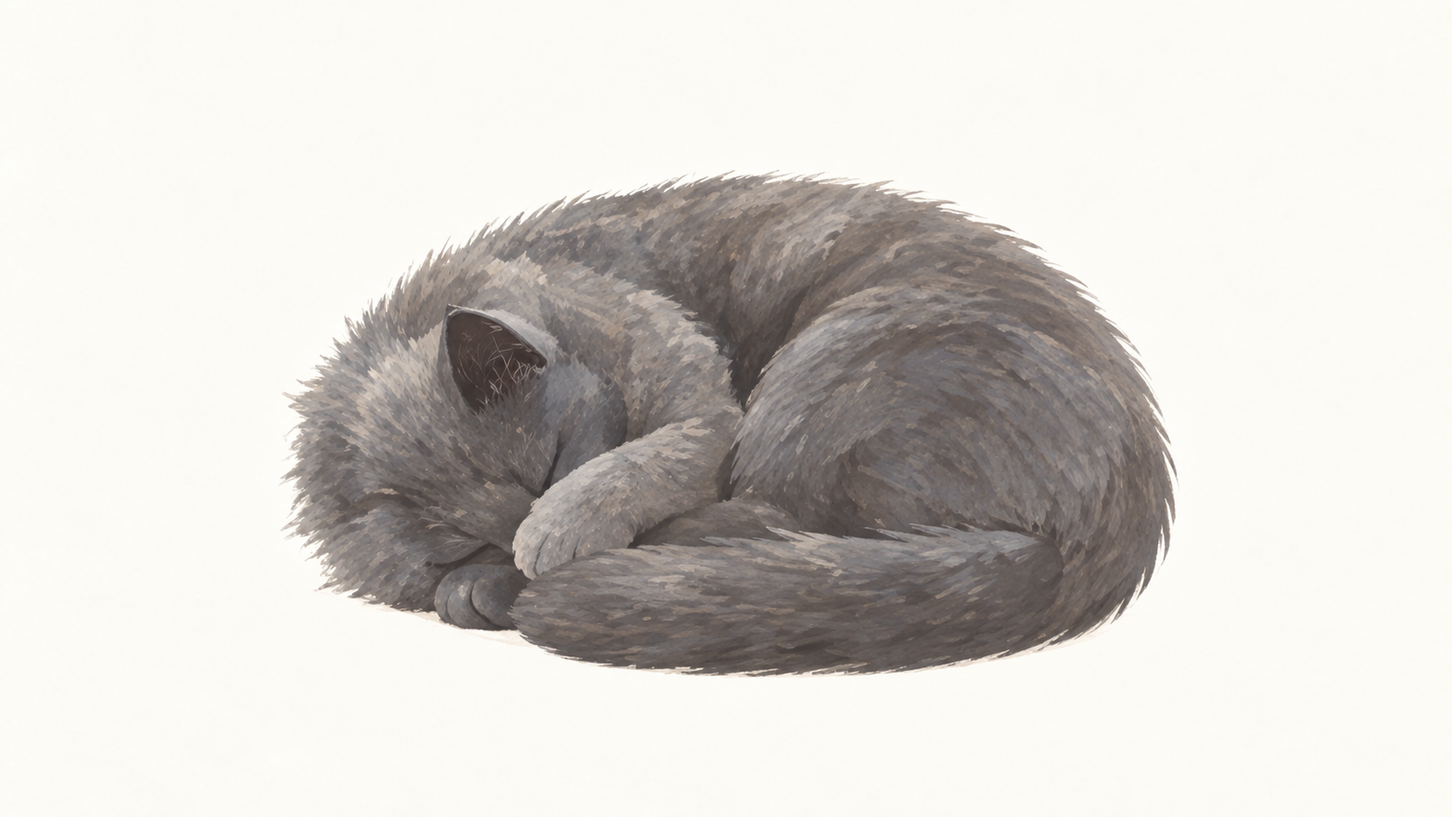
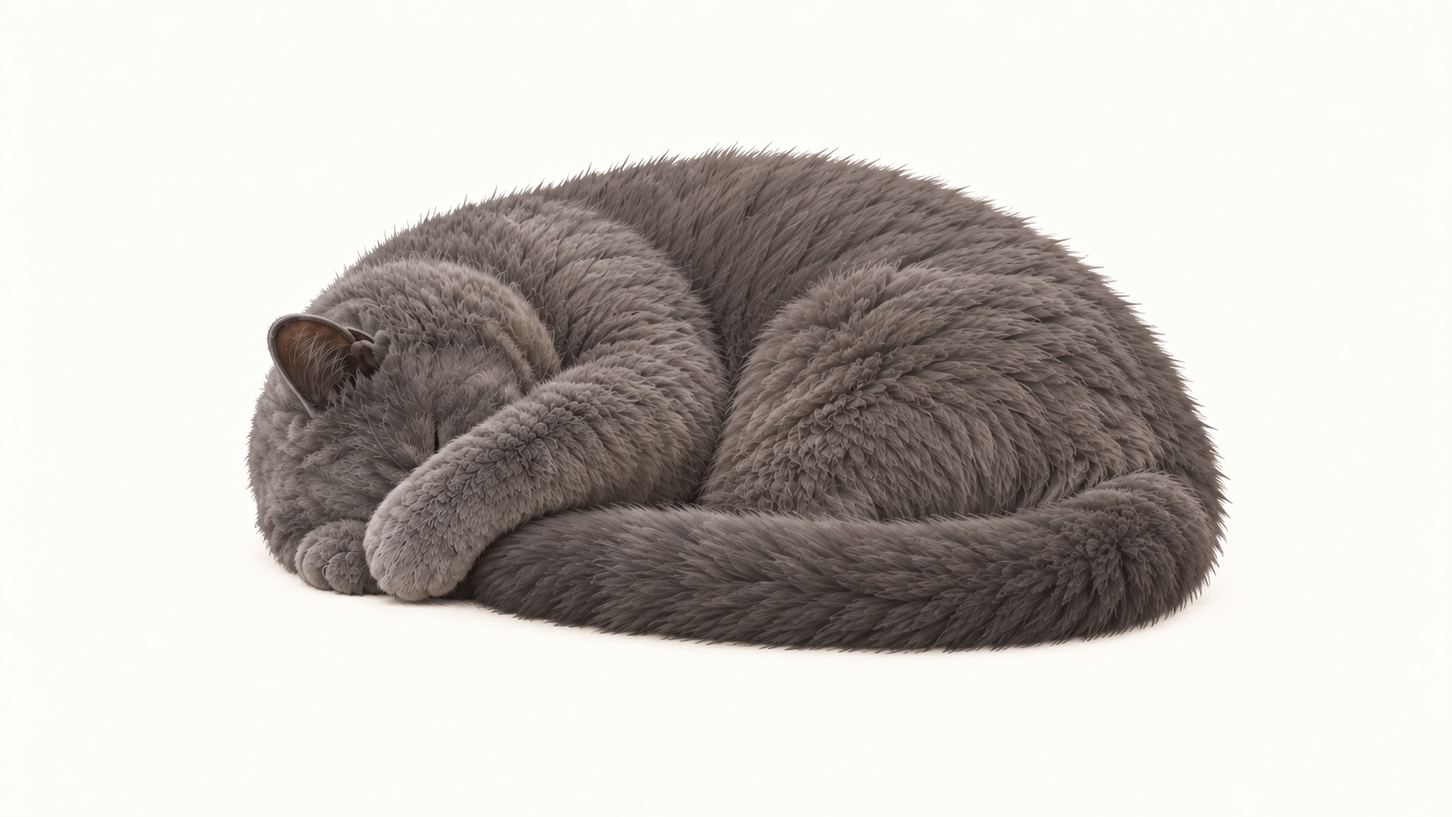
Redraw masked sleep in matching cat style and add comparison

Changed region(s): [[0.1555, 0.1849, 0.8708, 0.8321]]

diff --git a/art/video-pipeline/expressions-v4/index.html b/art/video-pipeline/expressions-v4/index.html
@@ -1,4 +1,4 @@
-<!doctype html><html lang="zh-CN"><meta charset="utf-8"><meta name="viewport" content="width=device-width"><title>陈皮新动作 v4</title><style>body{font:16px/1.7 system-ui;background:#f3f0e8;color:#303632;max-width:1180px;margin:32px auto;padding:20px}article{background:white;padding:20px;margin:22px 0;border-radius:16px}.pair{display:grid;grid-template-columns:1fr 1fr;gap:12px}figure{margin:0}img{width:100%}small{font-size:16px;color:#57665e}pre{white-space:pre-wrap;font:15px/1.8 system-ui}select{padding:8px}a{color:#276b5a}@media(max-width:650px){.pair{grid-template-columns:1fr}}</style><h1>陈皮 · 平躺、扶墙与表情动作 v4</h1><p>47条视频任务 · 12张共享锚点 · 逐条独立时长 · 仅制作包，待返片后接入</p><p><a href="README.md">制作说明与动作表</a> · <a href="行为衔接.md">行为树与15秒点击规则</a> · <a href="动作表.csv">CSV动作表</a></p><p>上传每条的首帧和尾帧原文件，复制完整提示词。循环首尾相同是有意设计。所有时长是制作目标，原素材不批量变速。</p><article><h2>2026-09-20 照片姿态修订版</h2><p>7张关键图已重画，另附哈欠峰值；等待用户美术评审与返片动态验收。<a href="静态审核.md">逐图对照与限制</a></p><div class="pair"><figure><img src="anchors/HR-右边扶墙.png"><figcaption>HR · 身体向墙倾斜，上前掌耳侧、下前掌胸前，均朝同一墙面；头回望，尾下垂，后脚承重。</figcaption></figure><figure><img src="anchors/HL-左边扶墙.png"><figcaption>HL · 单独生成左侧扶墙，上掌耳侧、下掌胸前、头回望，身体朝墙倾斜；浅背景。</figcaption></figure><figure><img src="anchors/A-侧躺收爪.png"><figcaption>A · 左侧脸贴地，近脸前爪弯曲，后腿一伸一屈，尾靠后腿；闭眼不主动看镜头。</figcaption></figure><figure><img src="anchors/B-露肚仰躺.png"><figcaption>B · 露肚、右侧头后仰贴地，两前腿向头顶一高一低展开；闭嘴。</figcaption></figure><figure><img src="anchors/C-侧躺舒展.png"><figcaption>C · 背向，近臀远头，正脸不可见，尾绕近侧、腿不对称伸出。</figcaption></figure><figure><img src="anchors/M-掩面睡姿.png"><figcaption>M · 低伏侧面椭圆蜷睡，头在左埋于前爪、近前臂盖脸，圆背在右、尾围前缘。</figcaption></figure><figure><img src="anchors/D-趴卧.png"><figcaption>D · 低头胸腹贴地、前爪朝画面右下，作为趴卧连接；不声称逐像素复刻照片。</figcaption></figure><figure><img src="peaks/B-仰躺哈欠峰值.png"><figcaption>哈欠中间峰值；不能代替循环首尾</figcaption></figure></div></article><label>动作分类 <select id="filter"><option value="">全部</option><option>扶墙</option><option>平躺衔接</option><option>休息循环</option><option>点击</option><option>哈欠</option><option>掩面睡眠</option><option>叫声表现</option><option>伸懒腰</option></select></label><article data-group="扶墙"><h2>52-右边抬身扶墙 <small>3s · 过渡</small></h2><div class="pair"><figure><img loading="lazy" src="52-右边抬身扶墙/首帧.png"><figcaption>首帧 · SR</figcaption></figure><figure><img loading="lazy" src="52-右边抬身扶墙/尾帧.png"><figcaption>尾帧 · HR</figcaption></figure></div><p>朝右站立，后脚承重，抬胸并将身体向右墙倾斜约15—20度；高前爪伸至耳侧、低前爪伸至胸前，两掌先后抵住同一竖面。保持猫式肩肘结构，头回望略倾，尾向左下垂；不是双手握拳靠胸。</p><p><a href="52-右边抬身扶墙/提示词.txt">完整提示词</a> · <a href="52-右边抬身扶墙/首帧.png">首帧原图</a> · <a href="52-右边抬身扶墙/尾帧.png">尾帧原图</a></p><details><summary>展开可复制提示词</summary><pre>52-右边抬身扶墙
+<!doctype html><html lang="zh-CN"><meta charset="utf-8"><meta name="viewport" content="width=device-width"><title>陈皮新动作 v4</title><style>body{font:16px/1.7 system-ui;background:#f3f0e8;color:#303632;max-width:1180px;margin:32px auto;padding:20px}article{background:white;padding:20px;margin:22px 0;border-radius:16px}.pair{display:grid;grid-template-columns:1fr 1fr;gap:12px}figure{margin:0}img{width:100%}small{font-size:16px;color:#57665e}pre{white-space:pre-wrap;font:15px/1.8 system-ui}select{padding:8px}a{color:#276b5a}@media(max-width:650px){.pair{grid-template-columns:1fr}}</style><h1>陈皮 · 平躺、扶墙与表情动作 v4</h1><p>47条视频任务 · 12张共享锚点 · 逐条独立时长 · 仅制作包，待返片后接入</p><p><a href="README.md">制作说明与动作表</a> · <a href="行为衔接.md">行为树与15秒点击规则</a> · <a href="动作表.csv">CSV动作表</a></p><p>上传每条的首帧和尾帧原文件，复制完整提示词。循环首尾相同是有意设计。所有时长是制作目标，原素材不批量变速。</p><article><h2>2026-09-20 照片姿态修订版</h2><p>7张关键图已重画，另附哈欠峰值；等待用户美术评审与返片动态验收。<a href="静态审核.md">逐图对照与限制</a></p><div class="pair"><figure><img src="anchors/HR-右边扶墙.png"><figcaption>HR · 身体向墙倾斜，上前掌耳侧、下前掌胸前，均朝同一墙面；头回望，尾下垂，后脚承重。</figcaption></figure><figure><img src="anchors/HL-左边扶墙.png"><figcaption>HL · 单独生成左侧扶墙，上掌耳侧、下掌胸前、头回望，身体朝墙倾斜；浅背景。</figcaption></figure><figure><img src="anchors/A-侧躺收爪.png"><figcaption>A · 左侧脸贴地，近脸前爪弯曲，后腿一伸一屈，尾靠后腿；闭眼不主动看镜头。</figcaption></figure><figure><img src="anchors/B-露肚仰躺.png"><figcaption>B · 露肚、右侧头后仰贴地，两前腿向头顶一高一低展开；闭嘴。</figcaption></figure><figure><img src="anchors/C-侧躺舒展.png"><figcaption>C · 背向，近臀远头，正脸不可见，尾绕近侧、腿不对称伸出。</figcaption></figure><figure><img src="anchors/M-掩面睡姿.png"><figcaption>M · r5重新绘制：毛簇、软爪和胸腹暗部更接近A；低侧视蜷团、头埋于左侧前爪、前臂遮脸、尾围前缘。具体轮廓与爪位有重绘差异，待用户评审。</figcaption></figure><figure><img src="anchors/D-趴卧.png"><figcaption>D · 低头胸腹贴地、前爪朝画面右下，作为趴卧连接；不声称逐像素复刻照片。</figcaption></figure><figure><img src="peaks/B-仰躺哈欠峰值.png"><figcaption>哈欠中间峰值；不能代替循环首尾</figcaption></figure></div></article><label>动作分类 <select id="filter"><option value="">全部</option><option>扶墙</option><option>平躺衔接</option><option>休息循环</option><option>点击</option><option>哈欠</option><option>掩面睡眠</option><option>叫声表现</option><option>伸懒腰</option></select></label><article data-group="扶墙"><h2>52-右边抬身扶墙 <small>3s · 过渡</small></h2><div class="pair"><figure><img loading="lazy" src="52-右边抬身扶墙/首帧.png"><figcaption>首帧 · SR</figcaption></figure><figure><img loading="lazy" src="52-右边抬身扶墙/尾帧.png"><figcaption>尾帧 · HR</figcaption></figure></div><p>朝右站立，后脚承重，抬胸并将身体向右墙倾斜约15—20度；高前爪伸至耳侧、低前爪伸至胸前，两掌先后抵住同一竖面。保持猫式肩肘结构，头回望略倾，尾向左下垂；不是双手握拳靠胸。</p><p><a href="52-右边抬身扶墙/提示词.txt">完整提示词</a> · <a href="52-右边抬身扶墙/首帧.png">首帧原图</a> · <a href="52-右边抬身扶墙/尾帧.png">尾帧原图</a></p><details><summary>展开可复制提示词</summary><pre>52-右边抬身扶墙
 接缝：SR → HR；类型：过渡
 建议有效动作时长 3 秒。按这个节奏制作，不统一做5秒。平台仅支持固定时长时，选择不短于目标的最近时长，完整动作按目标时长完成，剩余仅保持结束姿态；循环只添加完整周期，不拖慢呼吸或重复倒放。返还未加速、未补帧的原始视频并说明实际时长。
 
@@ -288,6 +288,8 @@
 动作：从A头在左的侧瘫开始收回伸长后腿，弯脊背将后躯包向头，缓慢压低胸颈，左侧头埋入前爪；近侧前臂覆盖眼脸，厚尾沿身体前缘围住，形成低伏侧面椭圆蜷睡。不可翻成俯视露肚圆团或抬头露脸。
 
 衔接：动作只发生一次；进入和退出均柔和，结束最多自然稳定约0.2秒。首尾相同时也必须完成中间指定动作，不能输出静帧。严格抵达上传的尾图姿态，不跳切、溶解、变形补间或突然缩放。全程静音生成；口型表现与后期声音分开，不生成语音、台词、音乐。
+
+画风一致性：M的r5重绘以同组A为唯一画风图片参考；保持A的柔软毛簇、爪部塑造和胸腹明暗；全程保持同一种毛发笔触密度与灰阶，不得在卷身/解卷时变成浅色斑驳块面、鳞片状或羽毛状粗笔触。姿态与原定时长不变。
 </pre></details></article><article data-group="掩面睡眠"><h2>84-掩面睡眠呼吸 <small>5.6s · 循环</small></h2><div class="pair"><figure><img loading="lazy" src="84-掩面睡眠呼吸/首帧.png"><figcaption>首帧 · M</figcaption></figure><figure><img loading="lazy" src="84-掩面睡眠呼吸/尾帧.png"><figcaption>尾帧 · M</figcaption></figure></div><p>维持低伏侧面椭圆蜷睡，左侧头埋在前爪，近侧前臂遮脸，右侧圆背与后躯收紧、厚尾围身体前缘。只胸腹浅呼吸，不露脸、不翻肚、不在循环接缝伸缩。</p><p><a href="84-掩面睡眠呼吸/提示词.txt">完整提示词</a> · <a href="84-掩面睡眠呼吸/首帧.png">首帧原图</a> · <a href="84-掩面睡眠呼吸/尾帧.png">尾帧原图</a></p><details><summary>展开可复制提示词</summary><pre>84-掩面睡眠呼吸
 接缝：M → M；类型：循环
 建议有效动作时长 5.6 秒。按这个节奏制作，不统一做5秒。平台仅支持固定时长时，选择不短于目标的最近时长，完整动作按目标时长完成，剩余仅保持结束姿态；循环只添加完整周期，不拖慢呼吸或重复倒放。返还未加速、未补帧的原始视频并说明实际时长。
@@ -297,6 +299,8 @@
 动作：维持低伏侧面椭圆蜷睡，左侧头埋在前爪，近侧前臂遮脸，右侧圆背与后躯收紧、厚尾围身体前缘。只胸腹浅呼吸，不露脸、不翻肚、不在循环接缝伸缩。
 
 衔接：首尾是同一文件，但中间必须有指定动作；循环开始与结束相位和运动速度相容，不在末尾刹停。严格抵达上传的尾图姿态，不跳切、溶解、变形补间或突然缩放。全程静音生成；口型表现与后期声音分开，不生成语音、台词、音乐。
+
+画风一致性：M的r5重绘以同组A为唯一画风图片参考；保持A的柔软毛簇、爪部塑造和胸腹明暗；全程保持同一种毛发笔触密度与灰阶，不得在卷身/解卷时变成浅色斑驳块面、鳞片状或羽毛状粗笔触。姿态与原定时长不变。
 </pre></details></article><article data-group="掩面睡眠"><h2>85-掩面醒来放爪 <small>4s · 过渡</small></h2><div class="pair"><figure><img loading="lazy" src="85-掩面醒来放爪/首帧.png"><figcaption>首帧 · M</figcaption></figure><figure><img loading="lazy" src="85-掩面醒来放爪/尾帧.png"><figcaption>尾帧 · A</figcaption></figure></div><p>耳尖微动后，遮脸前臂缓慢放回胸前，头轻解埋至左侧脸贴地；尾与后躯逐渐松开，一条后腿伸长另一保留屈曲，展开为A。原地侧视，不翻成正面球、不拉伸整幅图片。</p><p><a href="85-掩面醒来放爪/提示词.txt">完整提示词</a> · <a href="85-掩面醒来放爪/首帧.png">首帧原图</a> · <a href="85-掩面醒来放爪/尾帧.png">尾帧原图</a></p><details><summary>展开可复制提示词</summary><pre>85-掩面醒来放爪
 接缝：M → A；类型：过渡
 建议有效动作时长 4 秒。按这个节奏制作，不统一做5秒。平台仅支持固定时长时，选择不短于目标的最近时长，完整动作按目标时长完成，剩余仅保持结束姿态；循环只添加完整周期，不拖慢呼吸或重复倒放。返还未加速、未补帧的原始视频并说明实际时长。
@@ -306,6 +310,8 @@
 动作：耳尖微动后，遮脸前臂缓慢放回胸前，头轻解埋至左侧脸贴地；尾与后躯逐渐松开，一条后腿伸长另一保留屈曲，展开为A。原地侧视，不翻成正面球、不拉伸整幅图片。
 
 衔接：动作只发生一次；进入和退出均柔和，结束最多自然稳定约0.2秒。首尾相同时也必须完成中间指定动作，不能输出静帧。严格抵达上传的尾图姿态，不跳切、溶解、变形补间或突然缩放。全程静音生成；口型表现与后期声音分开，不生成语音、台词、音乐。
+
+画风一致性：M的r5重绘以同组A为唯一画风图片参考；保持A的柔软毛簇、爪部塑造和胸腹明暗；全程保持同一种毛发笔触密度与灰阶，不得在卷身/解卷时变成浅色斑驳块面、鳞片状或羽毛状粗笔触。姿态与原定时长不变。
 </pre></details></article><article data-group="叫声表现"><h2>86-向右走路叫一声 <small>3.25s · 单次</small></h2><div class="pair"><figure><img loading="lazy" src="86-向右走路叫一声/首帧.png"><figcaption>首帧 · WR</figcaption></figure><figure><img loading="lazy" src="86-向右走路叫一声/尾帧.png"><figcaption>尾帧 · WR</figcaption></figure></div><p>延续首尾相同相位的原地四拍步态，完成整数个完整步态周期。只在中段轻抬下巴、张嘴短叫一次、合嘴，始终看前进方向；不停步、不回头、不变速。根节点不发生整体平移，实际屏幕位移由程序按脚步相位分配。</p><p><a href="86-向右走路叫一声/提示词.txt">完整提示词</a> · <a href="86-向右走路叫一声/首帧.png">首帧原图</a> · <a href="86-向右走路叫一声/尾帧.png">尾帧原图</a></p><details><summary>展开可复制提示词</summary><pre>86-向右走路叫一声
 接缝：WR → WR；类型：单次
 建议有效动作时长 3.25 秒。按这个节奏制作，不统一做5秒。平台仅支持固定时长时，选择不短于目标的最近时长，完整动作按目标时长完成，剩余仅保持结束姿态；循环只添加完整周期，不拖慢呼吸或重复倒放。返还未加速、未补帧的原始视频并说明实际时长。

diff --git a/art/video-pipeline/expressions-v4/reviews/m-style-r5/index.html b/art/video-pipeline/expressions-v4/reviews/m-style-r5/index.html
@@ -1,0 +1,1 @@
+<!doctype html><html lang="zh-CN"><meta charset="utf-8"><meta name="viewport" content="width=device-width"><title>M画风修订对照 r5</title><style>body{margin:24px;background:#eeeae3;color:#333;font:16px/1.7 system-ui}main{max-width:1500px;margin:auto}.grid{display:grid;grid-template-columns:repeat(3,1fr);gap:16px}figure{margin:0;background:white;padding:12px;border-radius:12px}img{width:100%;display:block}a{color:#25635c}@media(max-width:850px){.grid{grid-template-columns:1fr}}</style><main><h1>掩面睡姿 · 画风重绘对照</h1><p>上一版被否决。新版仅以 A 作为角色与画风图片参考重新绘制；保持掩面蜷睡结构，具体轮廓和爪位有重绘差异。当前为待评审候选，未接入运行时。</p><div class="grid"><figure><h2>上一版 · 用户否决</h2><img src="previous-rejected.png"><figcaption>偏浅、纹理均匀、明暗较平。</figcaption></figure><figure><h2>新版 r5 · 待评审</h2><img src="../../anchors/M-掩面睡姿.png"><figcaption>重新绘制毛簇、软爪及胸腹暗部。</figcaption></figure><figure><h2>同组 A · 画风依据</h2><img src="../../anchors/A-侧躺收爪.png"><figcaption>直接对照毛发质感与灰度塑造。</figcaption></figure></div><p><a href="../../index.html">回到完整 pipeline</a> · <a href="../../prompts/M-style-redraw-r5.md">生成提示词</a></p></main></html>

diff --git a/tools/package_expressions_v4.py b/tools/package_expressions_v4.py
@@ -104,13 +104,15 @@ def main():
         text=f"{r['folder']}\n接缝：{r['start']} → {r['end']}；类型：{r['type']}\n{timing}\n\n{PREFIX}\n\n动作：{r['motion']}\n\n衔接：{seam}严格抵达上传的尾图姿态，不跳切、溶解、变形补间或突然缩放。全程静音生成；口型表现与后期声音分开，不生成语音、台词、音乐。\n"
         if r['id']==81:
             text+='\n额外中间峰值参考：../peaks/B-仰躺哈欠峰值.png。支持额外参考时上传；仅支持首尾时不替换首尾闭嘴B，按本段描述生成中间哈欠。\n'
+        if r['id'] in [83,84,85]:
+            text+='\n画风一致性：M的r5重绘以同组A为唯一画风图片参考；保持A的柔软毛簇、爪部塑造和胸腹明暗；全程保持同一种毛发笔触密度与灰阶，不得在卷身/解卷时变成浅色斑驳块面、鳞片状或羽毛状粗笔触。姿态与原定时长不变。\n'
         (folder/'提示词.txt').write_text(text,encoding='utf-8')
         (folder/'动作信息.json').write_text(json.dumps(r,ensure_ascii=False,indent=2)+'\n',encoding='utf-8')
         (folder/'关键词.txt').write_text(f"{r['name']} / {r['seconds']:g}s / {r['start']}→{r['end']} / {r['type']}\n",encoding='utf-8')
         table.append(f"| [{r['folder']}]({r['folder']}/提示词.txt) | {r['start']} → {r['end']} | {r['type']} | {r['seconds']:g}s |")
         pics=''.join(f'<figure><img loading="lazy" src="{r["folder"]}/{label}.png"><figcaption>{label} · {r[key]}</figcaption></figure>' for label,key in [('首帧','start'),('尾帧','end')])
         cards.append(f'<article data-group="{r["group"]}"><h2>{r["folder"]} <small>{r["seconds"]:g}s · {r["type"]}</small></h2><div class="pair">{pics}</div><p>{r["motion"]}</p><p><a href="{r["folder"]}/提示词.txt">完整提示词</a> · <a href="{r["folder"]}/首帧.png">首帧原图</a> · <a href="{r["folder"]}/尾帧.png">尾帧原图</a></p><details><summary>展开可复制提示词</summary><pre>{html.escape(text)}</pre></details></article>')
-    manifest={'status':'photo-revised-candidates-awaiting-user-review-and-external-video','revision':'2026-09-20-r2','poseReview':'修订静态对照.json','peakReference':'peaks/B-仰躺哈欠峰值.png','runtimeChanged':False,'generator':'builtin image_gen','anchors':anchor_records,'clips':rows,'clickWindow':{'seconds':15,'starts':'first qualifying click','reset':'fixed window expiry or leave flat-rest','counts':{'1':'same-pose mild twitch','2':'same-pose stronger twitch then one look-back meow','3':'stand to SR'}}}
+    manifest={'status':'photo-revised-candidates-awaiting-user-review-and-external-video','revision':'2026-09-20-r5-m-redraw','poseReview':'修订静态对照.json','peakReference':'peaks/B-仰躺哈欠峰值.png','runtimeChanged':False,'generator':'builtin image_gen','anchors':anchor_records,'clips':rows,'clickWindow':{'seconds':15,'starts':'first qualifying click','reset':'fixed window expiry or leave flat-rest','counts':{'1':'same-pose mild twitch','2':'same-pose stronger twitch then one look-back meow','3':'stand to SR'}}}
     (OUT/'manifest.json').write_text(json.dumps(manifest,ensure_ascii=False,indent=2)+'\n',encoding='utf-8')
     s=io.StringIO();w=csv.writer(s,lineterminator="\n");w.writerow(['编号','动作','首帧','尾帧','类型','目标秒数','分组']);w.writerows([r['id'],r['name'],r['start'],r['end'],r['type'],r['seconds'],r['group']] for r in rows);(OUT/'动作表.csv').write_text(s.getvalue(),encoding='utf-8-sig')
     header=(OUT/'制作说明.md').read_text(encoding='utf-8')

diff --git a/art/video-pipeline/expressions-v4/prompts/M-style-unification-20260920.md b/art/video-pipeline/expressions-v4/prompts/M-style-unification-20260920.md
@@ -1,0 +1,15 @@
+# M 掩面睡姿画风统一
+
+用户确认本轮问题为画风不一致。仅修正 M，保留低侧视椭圆蜷睡、头在左埋于前爪、前臂遮脸、尾围前缘；以同组 A、D 为毛发质感与灰色参考。使用内置 image_gen，不使用脚本缩放或绘制猫图。
+
+## 重绘提示词
+
+Use case: style-transfer. Edit ONLY image 1, Chenpi's face-covered curled sleeping animation keyframe. Images 2 and 3 are authoritative rendering STYLE and FUR COLOR references from the SAME animation set; do NOT copy their poses. Output ONE image, exact landscape 1672x941. Preserve image1's entire pose and composition: low side-view horizontal oval curled body, head on left buried inward, near forearm laid over eyes and nose, same visible ear, tucked other forepaw, round haunch right, thick tail wrapping across foreground. Preserve silhouette, camera angle, body placement, size, all paw locations, ear location, tail path and generous canvas margins as closely as possible. Change ONLY rendering style/color/texture to match images2/3: dense velvety SHORT gray British shorthair fur with fine soft coherent individual strokes, muted neutral blue-gray medium values, soft modeled volume and delicate fur edges, same refined 2D illustrated treatment. Remove image1's conspicuous broad flat patchwork daubs, angular beige/silver shards and mosaic/feather/leaf-like brush patches, remove washed-out pale highlights. Do not make fur long, shaggy, curly or spiky. Fine fur detail like image2 face and limbs, restrained tonal variation like image3. Match their warm off-white opaque backdrop. Keep eyes/mouth concealed exactly as image1, no face reveal. No pose redesign, no extending paws, no head lifting, no new limbs, no objects, no text, no border, no floor line, no cast shadow, no photoreal scene, no 3D plastic.
+
+## 画幅复核修订
+
+首次输出为 1671×941，未进入制作包。再次以内置 image_gen 要求精确 1672×941，并保留首次输出的细密短毛、灰色、蜷睡姿态与构图；原 M 仅作画幅参考，不恢复斑驳粗笔触。最终输出尺寸通过后才替换母图。
+
+## 验收边界
+
+助手已目视对照 A、D：大块浅色斑驳笔触明显减少，毛发与同组更一致，掩面蜷睡结构保留。这不是用户美术认可，也不是像素姿态完全相同或动态接缝通过。83—85 的动作分类和时长保持原值。

diff --git a/art/video-pipeline/expressions-v4/prompts/M-style-redraw-r5.md b/art/video-pipeline/expressions-v4/prompts/M-style-redraw-r5.md
@@ -1,0 +1,9 @@
+# M 画风重绘 r5
+
+上一版被用户指出仍与同组有明显差异，撤销“已统一”的结论。再次携带旧M作姿态图得到的r4仍受旧图影响，未采用。最终仅以A侧躺图为图片参考，文本描述掩面蜷睡，不继承旧M的纹理。
+
+使用内置 image_gen。最终提示词：
+
+Repose the SAME CAT in this illustration into a tightly curled sleeping pose. This one attached image is the SOLE source for the cat's rendering style, coat material, color, anatomy, paws, ears and facial proportions. Match its exact detailed plush rounded fur rendering, dark gray values, soft shading and natural layered short fur. Keep the image's existing art style unchanged; do not invent a new painting technique. The cat now sleeps in a low horizontal oval curl viewed from the side: head at left tucked down inward into forepaws, near forearm curved over eyes and nose so face completely hidden, one ear visible, other paw tucked under head. Spine arcs across back toward round haunch on right. Thick tail lies along bottom front from right haunch toward paws at left. Adult British shorthair gray cat, dense rounded plush cheek fur as source, soft rounded paw toes as source. Anatomy must read as the SAME cat from reference now curled up; no uniform flat strokes, no all-over combed parallel hatching, no flat pale gray fill, no triangular chips or enlarged scale pattern, no new leaf pattern. Modulate local fur length naturally like attached cat. Deep soft separation between elbow/head/belly and tail, beautiful soft gray modeling like source. Do not reveal eyes or nose, do not look at viewer, do not lift chin, do not switch top-down camera. Complete curled cat centered with generous pale ivory empty background. EXACT 1672x941 landscape canvas. Entire curled silhouette about 1040px wide and 550px high; positioned centered around x836 y495. No ground shadow, no objects, no labels, no border. Repose only, strongly preserve SOURCE CHARACTER AND ART STYLE.
+
+助手观察：新版毛簇、软爪和胸腹暗部更接近A，保留低侧视蜷团、埋脸、前臂遮脸及环绕尾。重绘改变了头部/爪部具体轮廓与位置，不宣称逐像素保持，也不以结构检查代替用户画风验收。待用户评审、外部视频及动态接缝检查。

diff --git a/art/video-pipeline/expressions-v4/制作说明.md b/art/video-pipeline/expressions-v4/制作说明.md
@@ -35,3 +35,13 @@
 **相同画幅不等于像素高度和体型已统一。** 不同姿态有投影、身体接触面及头部朝向变化，模型也没有严格遵守指定接触像素。返片前后都须量测同姿态端点、头骨/胸廓尺度、脚或侧腹接触和相邻帧变化；不凭总外框/尾尖最低点对齐，不用瞬间缩放补高度。对实际存在的视角或比例跳变重制端点/视频，不能靠提示词宣称解决。
 
 图中只含猫；墙、家具、人手、界面、水印和烘焙阴影不纳入动画。参考截图原件保存在本地私有参考目录，生成图和制作文档上传指定Git。
+
+
+## 2026-09-20 M画风统一
+
+用户确认M掩面图的画风与其他图不一致。本轮以内置image_gen保留低侧视蜷睡、埋脸遮面及尾围前缘，以同组A/D统一细密短毛、柔和灰阶，替换此前大块浅色斑驳笔触。母图及83尾帧、84首尾帧、85首帧同步，动作分类与4.2/5.6/4秒时长不变。1672×941尺寸和共享哈希已检查；助手已静态查看，仍待用户美术评审与视频动态验收。提示词见[prompts/M-style-unification-20260920.md](prompts/M-style-unification-20260920.md)。
+
+
+## M画风第二次纠正 r5
+
+用户指出上一版仍与其他图差异很大，撤销上一节“统一”完成判断。再次以旧M作姿态图片参考的r4仍受旧图影响，未采用；r5仅以A侧躺图为角色和画风参考重新绘制。毛簇、软爪和胸腹暗部更接近A，具体轮廓/爪位有重绘差异，仍保留低侧视掩面蜷睡结构。新版为待评审候选；[上一版/新版/同组A三图对照](reviews/m-style-r5/index.html)。83—85动作及4.2/5.6/4秒不变；运行时未动。

diff --git a/mistakes/art-012.md b/mistakes/art-012.md
@@ -1,0 +1,11 @@
+# ART-012：姿态参考带入了不同毛发画风
+
+2026-09-20 用户指出 v4 的 M 掩面睡姿与同组画风不同。实际对照 A/D：M 的浅色大块斑驳笔触较突出，同组毛发更细密。此前只记录了掩面蜷睡姿态，未充分检查毛发笔触密度和灰阶的一致性。
+
+本轮以内置 image_gen 保留 M 的姿态结构，使用 A/D 作风格参考重绘。初稿宽度1671，重新生成至1672×941后才接入；母图及83尾/84首尾/85首共5张PNG更新，其余102张PNG字节不变，94首尾哈希通过，47条动作与时长不变。用户美术评审与动态验收仍待完成。
+
+防呆：姿态参考与画风参考分别指定；跨图检查笔触尺度、毛发质感与灰阶，不能只确认姿态正确。尺寸读取实际PNG，不依赖生成提示的承诺。更新所有消费者并检查共享哈希。
+
+实现中临时校验脚本首次把 Windows 反斜杠路径与正斜杠键混用，在更新副本前报 KeyError。已统一相对路径 as_posix，保留原图备份后续跑成功；不得重复覆盖修订前备份。
+
+第二次纠正：用户再次否决上一版，不能以纹理略变及哈希改变认定画风统一。携带旧M作图像参考仍受旧图影响；最终只以A为角色/画风图片参考重新绘制，文本定义蜷睡姿态。提供上一版/新版/A同屏对照，明确具体轮廓和爪位有重绘差异，待用户评审。上传状态需单独说明，本地更新不能暗示远端已更新。

diff --git a/art/video-pipeline/expressions-v4/静态审核.md b/art/video-pipeline/expressions-v4/静态审核.md
@@ -26,3 +26,13 @@
 - 源图仍不作为已统一像素尺度的精确端点承诺。不得用整体瞬间缩放补高度；需要时先重制端点再返片。
 
 文件尺寸、背景透明度及共享哈希检查与上述造型观察分开。实际生成提示见修订生成记录.json；历史被否决的提示文件仅留作追溯。
+
+
+## 2026-09-20 M画风统一
+
+用户确认M掩面图的画风与其他图不一致。本轮以内置image_gen保留低侧视蜷睡、埋脸遮面及尾围前缘，以同组A/D统一细密短毛、柔和灰阶，替换此前大块浅色斑驳笔触。母图及83尾帧、84首尾帧、85首帧同步，动作分类与4.2/5.6/4秒时长不变。1672×941尺寸和共享哈希已检查；助手已静态查看，仍待用户美术评审与视频动态验收。提示词见[prompts/M-style-unification-20260920.md](prompts/M-style-unification-20260920.md)。
+
+
+## M画风第二次纠正 r5
+
+用户指出上一版仍与其他图差异很大，撤销上一节“统一”完成判断。再次以旧M作姿态图片参考的r4仍受旧图影响，未采用；r5仅以A侧躺图为角色和画风参考重新绘制。毛簇、软爪和胸腹暗部更接近A，具体轮廓/爪位有重绘差异，仍保留低侧视掩面蜷睡结构。新版为待评审候选；[上一版/新版/同组A三图对照](reviews/m-style-r5/index.html)。83—85动作及4.2/5.6/4秒不变；运行时未动。

diff --git a/art/video-pipeline/expressions-v4/README.md b/art/video-pipeline/expressions-v4/README.md
@@ -37,6 +37,16 @@
 图中只含猫；墙、家具、人手、界面、水印和烘焙阴影不纳入动画。参考截图原件保存在本地私有参考目录，生成图和制作文档上传指定Git。
 
 
+## 2026-09-20 M画风统一
+
+用户确认M掩面图的画风与其他图不一致。本轮以内置image_gen保留低侧视蜷睡、埋脸遮面及尾围前缘，以同组A/D统一细密短毛、柔和灰阶，替换此前大块浅色斑驳笔触。母图及83尾帧、84首尾帧、85首帧同步，动作分类与4.2/5.6/4秒时长不变。1672×941尺寸和共享哈希已检查；助手已静态查看，仍待用户美术评审与视频动态验收。提示词见[prompts/M-style-unification-20260920.md](prompts/M-style-unification-20260920.md)。
+
+
+## M画风第二次纠正 r5
+
+用户指出上一版仍与其他图差异很大，撤销上一节“统一”完成判断。再次以旧M作姿态图片参考的r4仍受旧图影响，未采用；r5仅以A侧躺图为角色和画风参考重新绘制。毛簇、软爪和胸腹暗部更接近A，具体轮廓/爪位有重绘差异，仍保留低侧视掩面蜷睡结构。新版为待评审候选；[上一版/新版/同组A三图对照](reviews/m-style-r5/index.html)。83—85动作及4.2/5.6/4秒不变；运行时未动。
+
+
 ## 动画动作表
 
 | 动作 / 提示词 | 首尾共用锚点 | 类型 | 目标时长 |

diff --git a/rules/rules.md b/rules/rules.md
@@ -144,3 +144,7 @@
 2026-09-20 最新额度覆盖：用户明确‘重新出图，剩余20的时候再提醒’，继续按8张新参考重做v4关键图。原30%停止线失效，剩余20%时提醒并保存进度。
 
 2026-09-20新增姿态标准优先级：用户在出图中提供扶墙和捂脸绘图，作为HR/HL/M具体姿态最新依据，覆盖旧照片的相关姿势推断。扶墙需向墙倾斜，上掌耳侧/下掌胸前同面贴墙；掩面需低伏侧面蜷睡、左侧头埋前爪、尾围前缘，不能用俯视露脸圆团替代。风格和姿态依据分开，不以提示词约束代替实际图像检查。
+
+2026-09-20 M画风纠正：掩面标准图约束姿态，毛发画法以同组A/D为准；不得把姿态参考的粗块斑驳笔触带入整组。检查短毛笔触密度和灰阶，并同步共享母图的全部首尾消费者。此次仅更新视频输入包，运行时与动作时长不变。见mistakes/art-012.md。
+
+2026-09-20 M画风再次纠正：上一版未获认可；r5以A为唯一画风图片参考重新绘制，旧M不再作为纹理来源。对照旧版/新版/同组图判断整体观感，不以文件变更或微纹理变化宣称统一，候选与用户认可分开。
